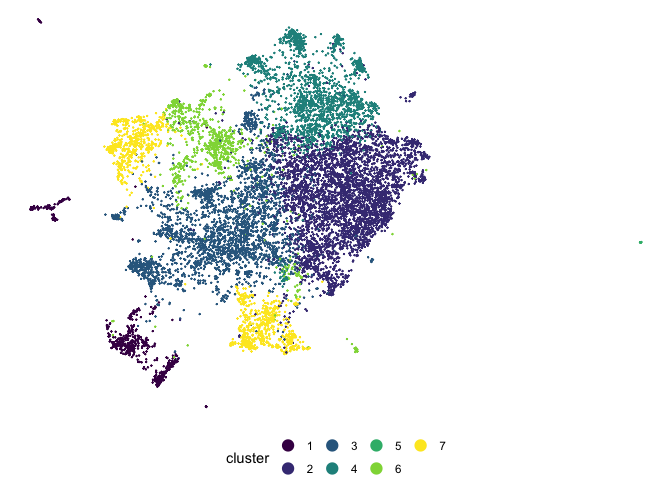
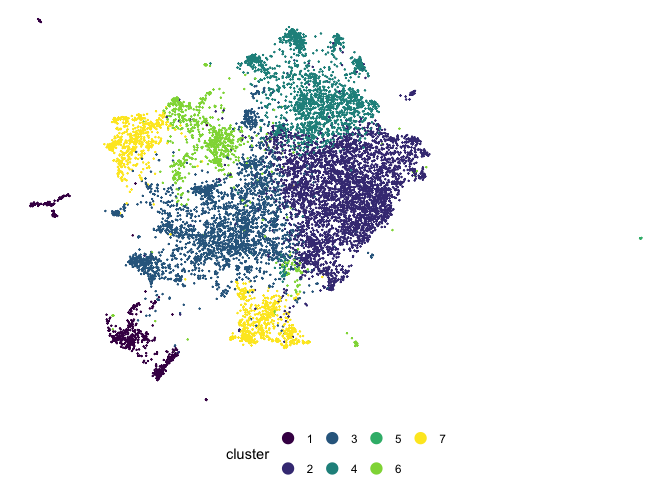
Standardise docs to SAMY theme

diff --git a/README.md b/README.md
@@ -3,14 +3,11 @@
 
 # LandscapeR
 
-<!-- badges: start -->
-
 [![pkgdown](https://github.com/jpcompartir/LandscapeR/actions/workflows/pkgdown.yaml/badge.svg)](https://github.com/jpcompartir/LandscapeR/actions/workflows/pkgdown.yaml)
-<!-- badges: end -->
 
-<img src="man/figures/Capture_Intelligence_FullColour.png" align="top" width="100%" style="padding: 25px 50px 25px 0px;"/>
+------------------------------------------------------------------------
 
-<img src="man/figures/landscaper.png" align="right" width="300px;" height = "300px" style="padding: 25px 25px 25px 25px;"/>
+<img src="man/figures/landscaper_hex.png" align="right" width="300px" height="300px" style="padding: 25px 25px 25px 25px;"/>
 
 LandscapeR is our R Package for exploring text data which has been
 transformed into a navigable landscape. The package makes use of
@@ -32,6 +29,8 @@ You can install the development version of LandscapeR using the
 ``` r
 devtools::install_github(repo = "jpcompartir/LandscapeR")
 ```
+
+## Examples
 
 We can take this table of text:
 
@@ -61,6 +60,12 @@ And transform it into a navigable landscape:
 
 ``` r
 ls_example %>% ls_plot_static()
+#> Warning in .setup_fonts(): Font 'Segoe UI' not found in system, download and
+#> install individually to access full package functionality
+#> Warning in .setup_fonts(): Font 'NeueHaasGroteskText Pro Md' not found in
+#> system, download and install individually to access full package functionality
+#> Warning in .setup_fonts(): Font 'GT Walsheim Pro' not found in system, download
+#> and install individually to access full package functionality
 ```
 
 <img src="man/figures/README-unnamed-chunk-3-1.png" width="100%" />
@@ -99,7 +104,7 @@ ls_example %>%
 
 <img src="man/figures/README-unnamed-chunk-6-1.png" width="100%" />
 
-# Shiny Application
+## Shiny Application
 
 For the most up-to-date version of the Shiny application, you should
 install the LandscapeRGolem package:
@@ -111,3 +116,7 @@ remotes::install_github(repo = "jpcompartir/LandscaperGolem")
 Check out the [Running Your App Locally
 vignette](vignettes/running_app_locally.Rmd) for tips on how to run the
 app.
+
+------------------------------------------------------------------------
+
+<img src="man/figures/samy_banner.png" alt="SAMY Data Science" width="100%"/>
